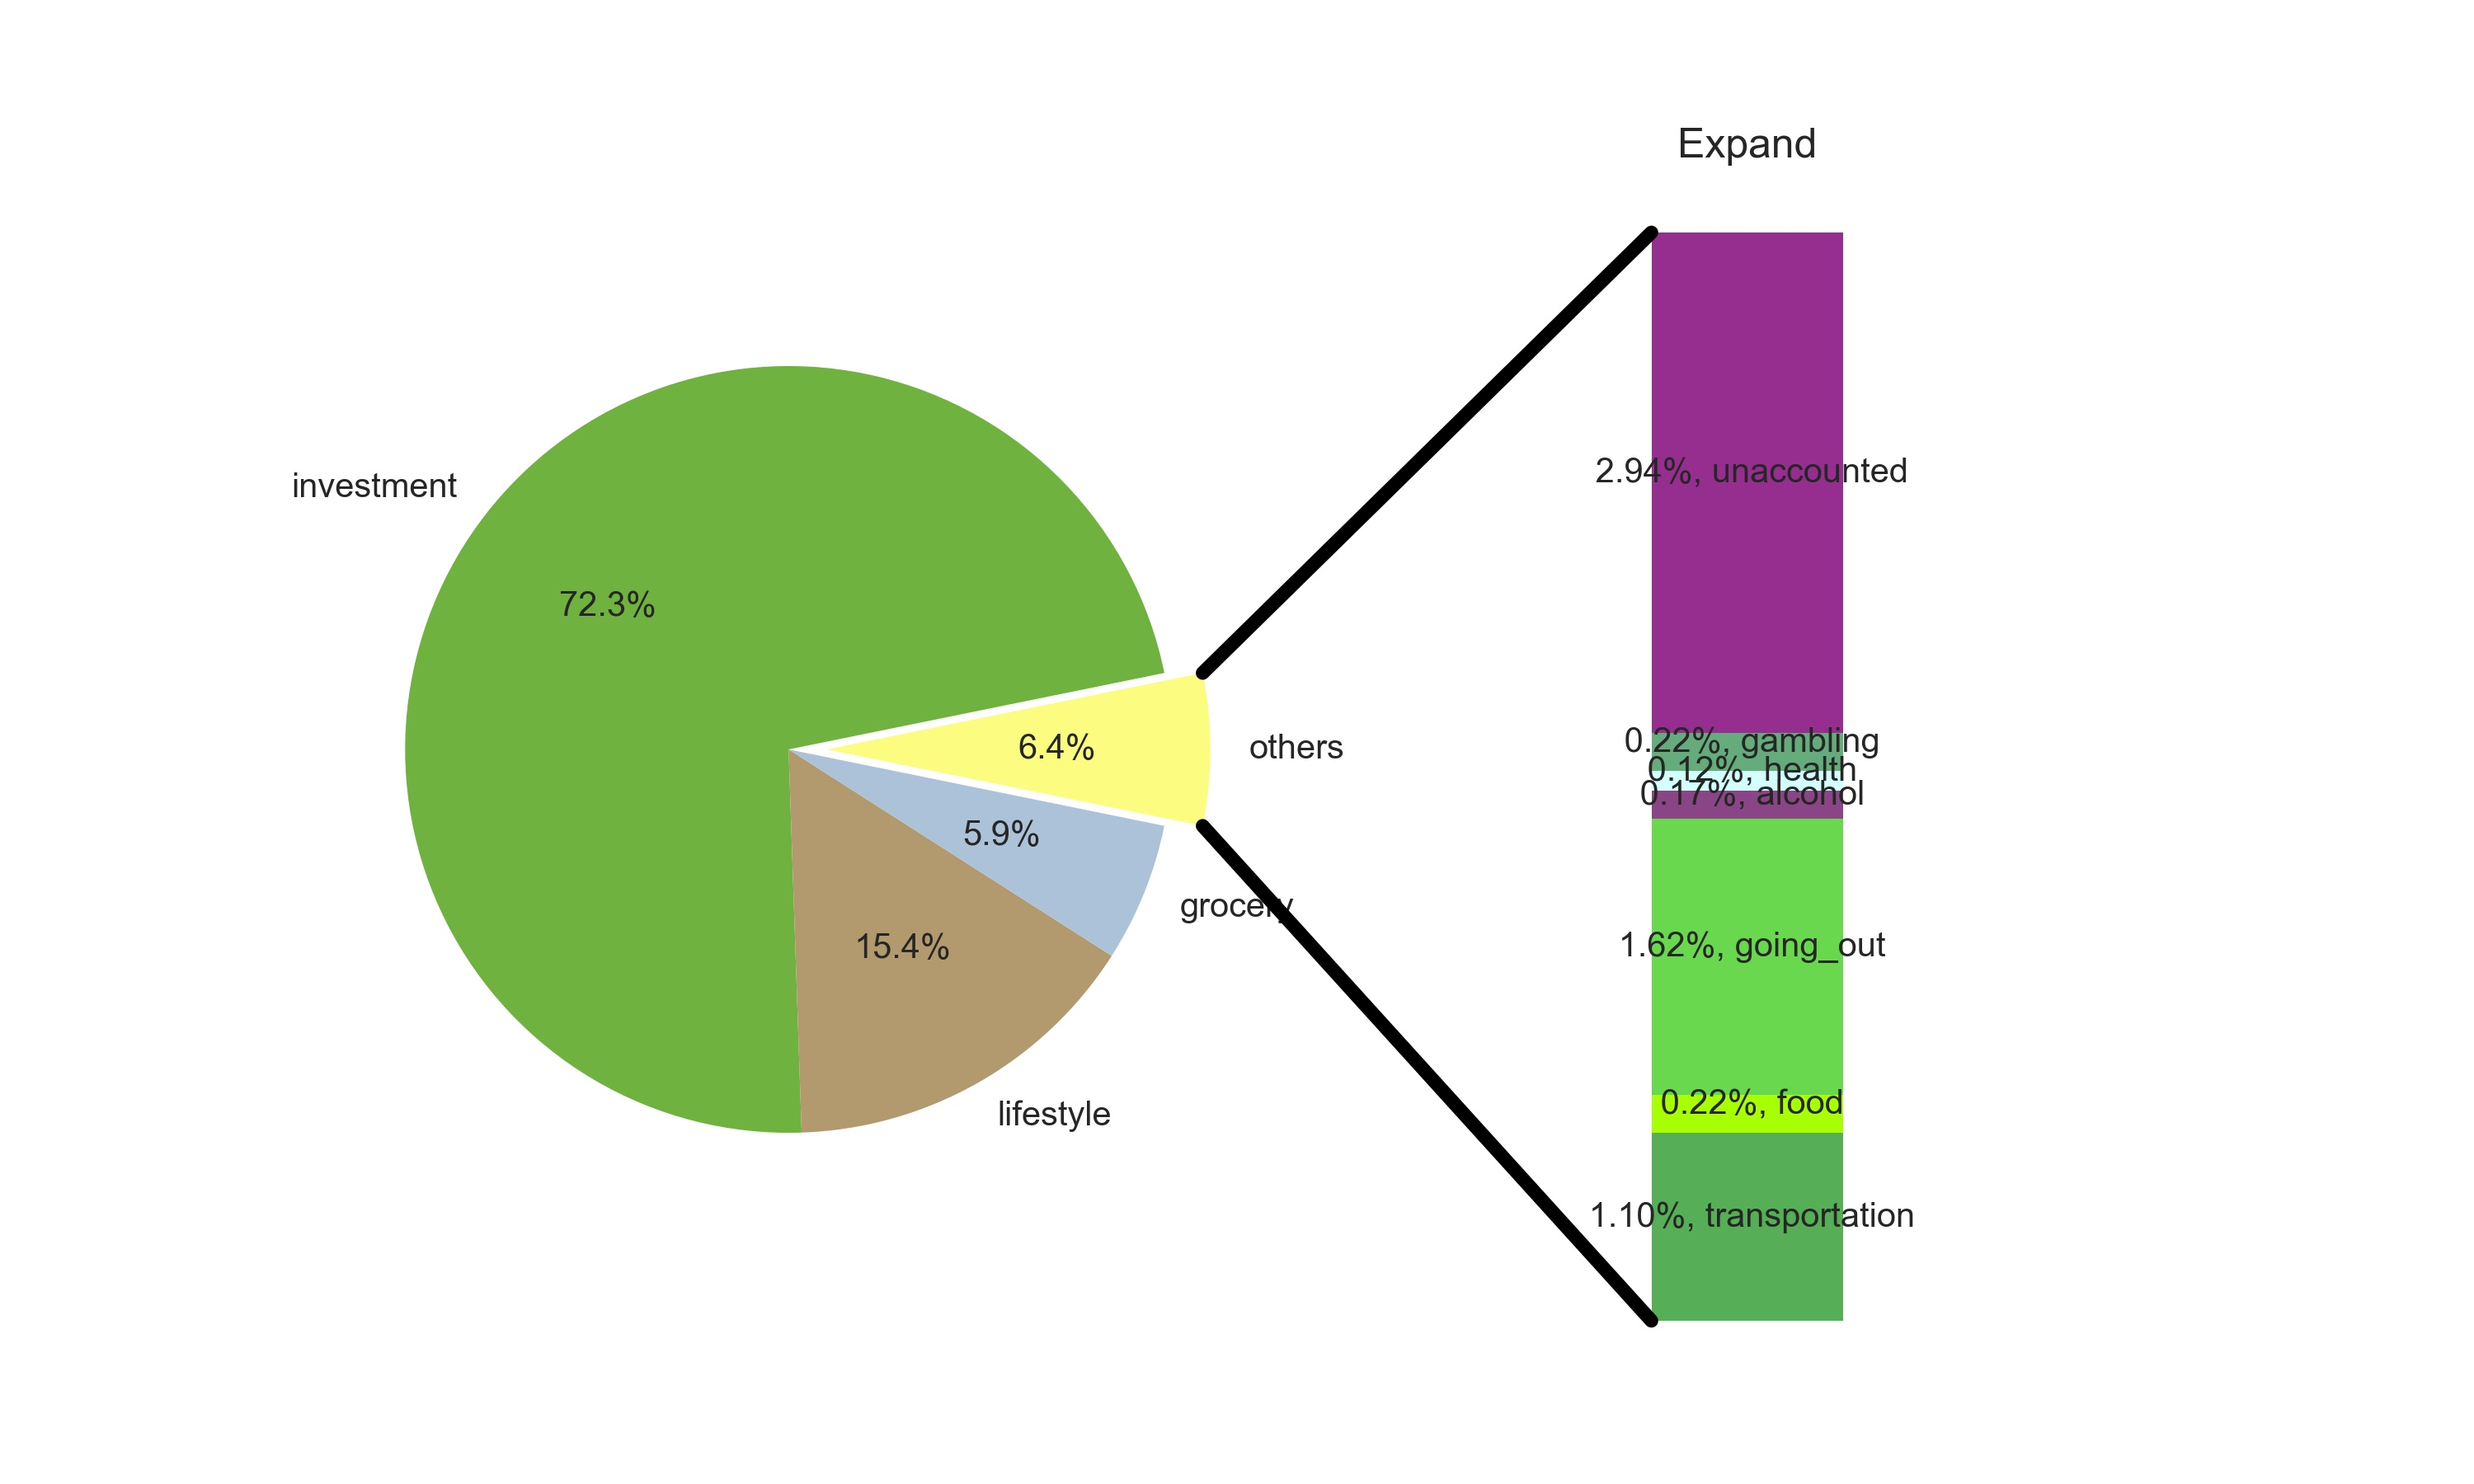
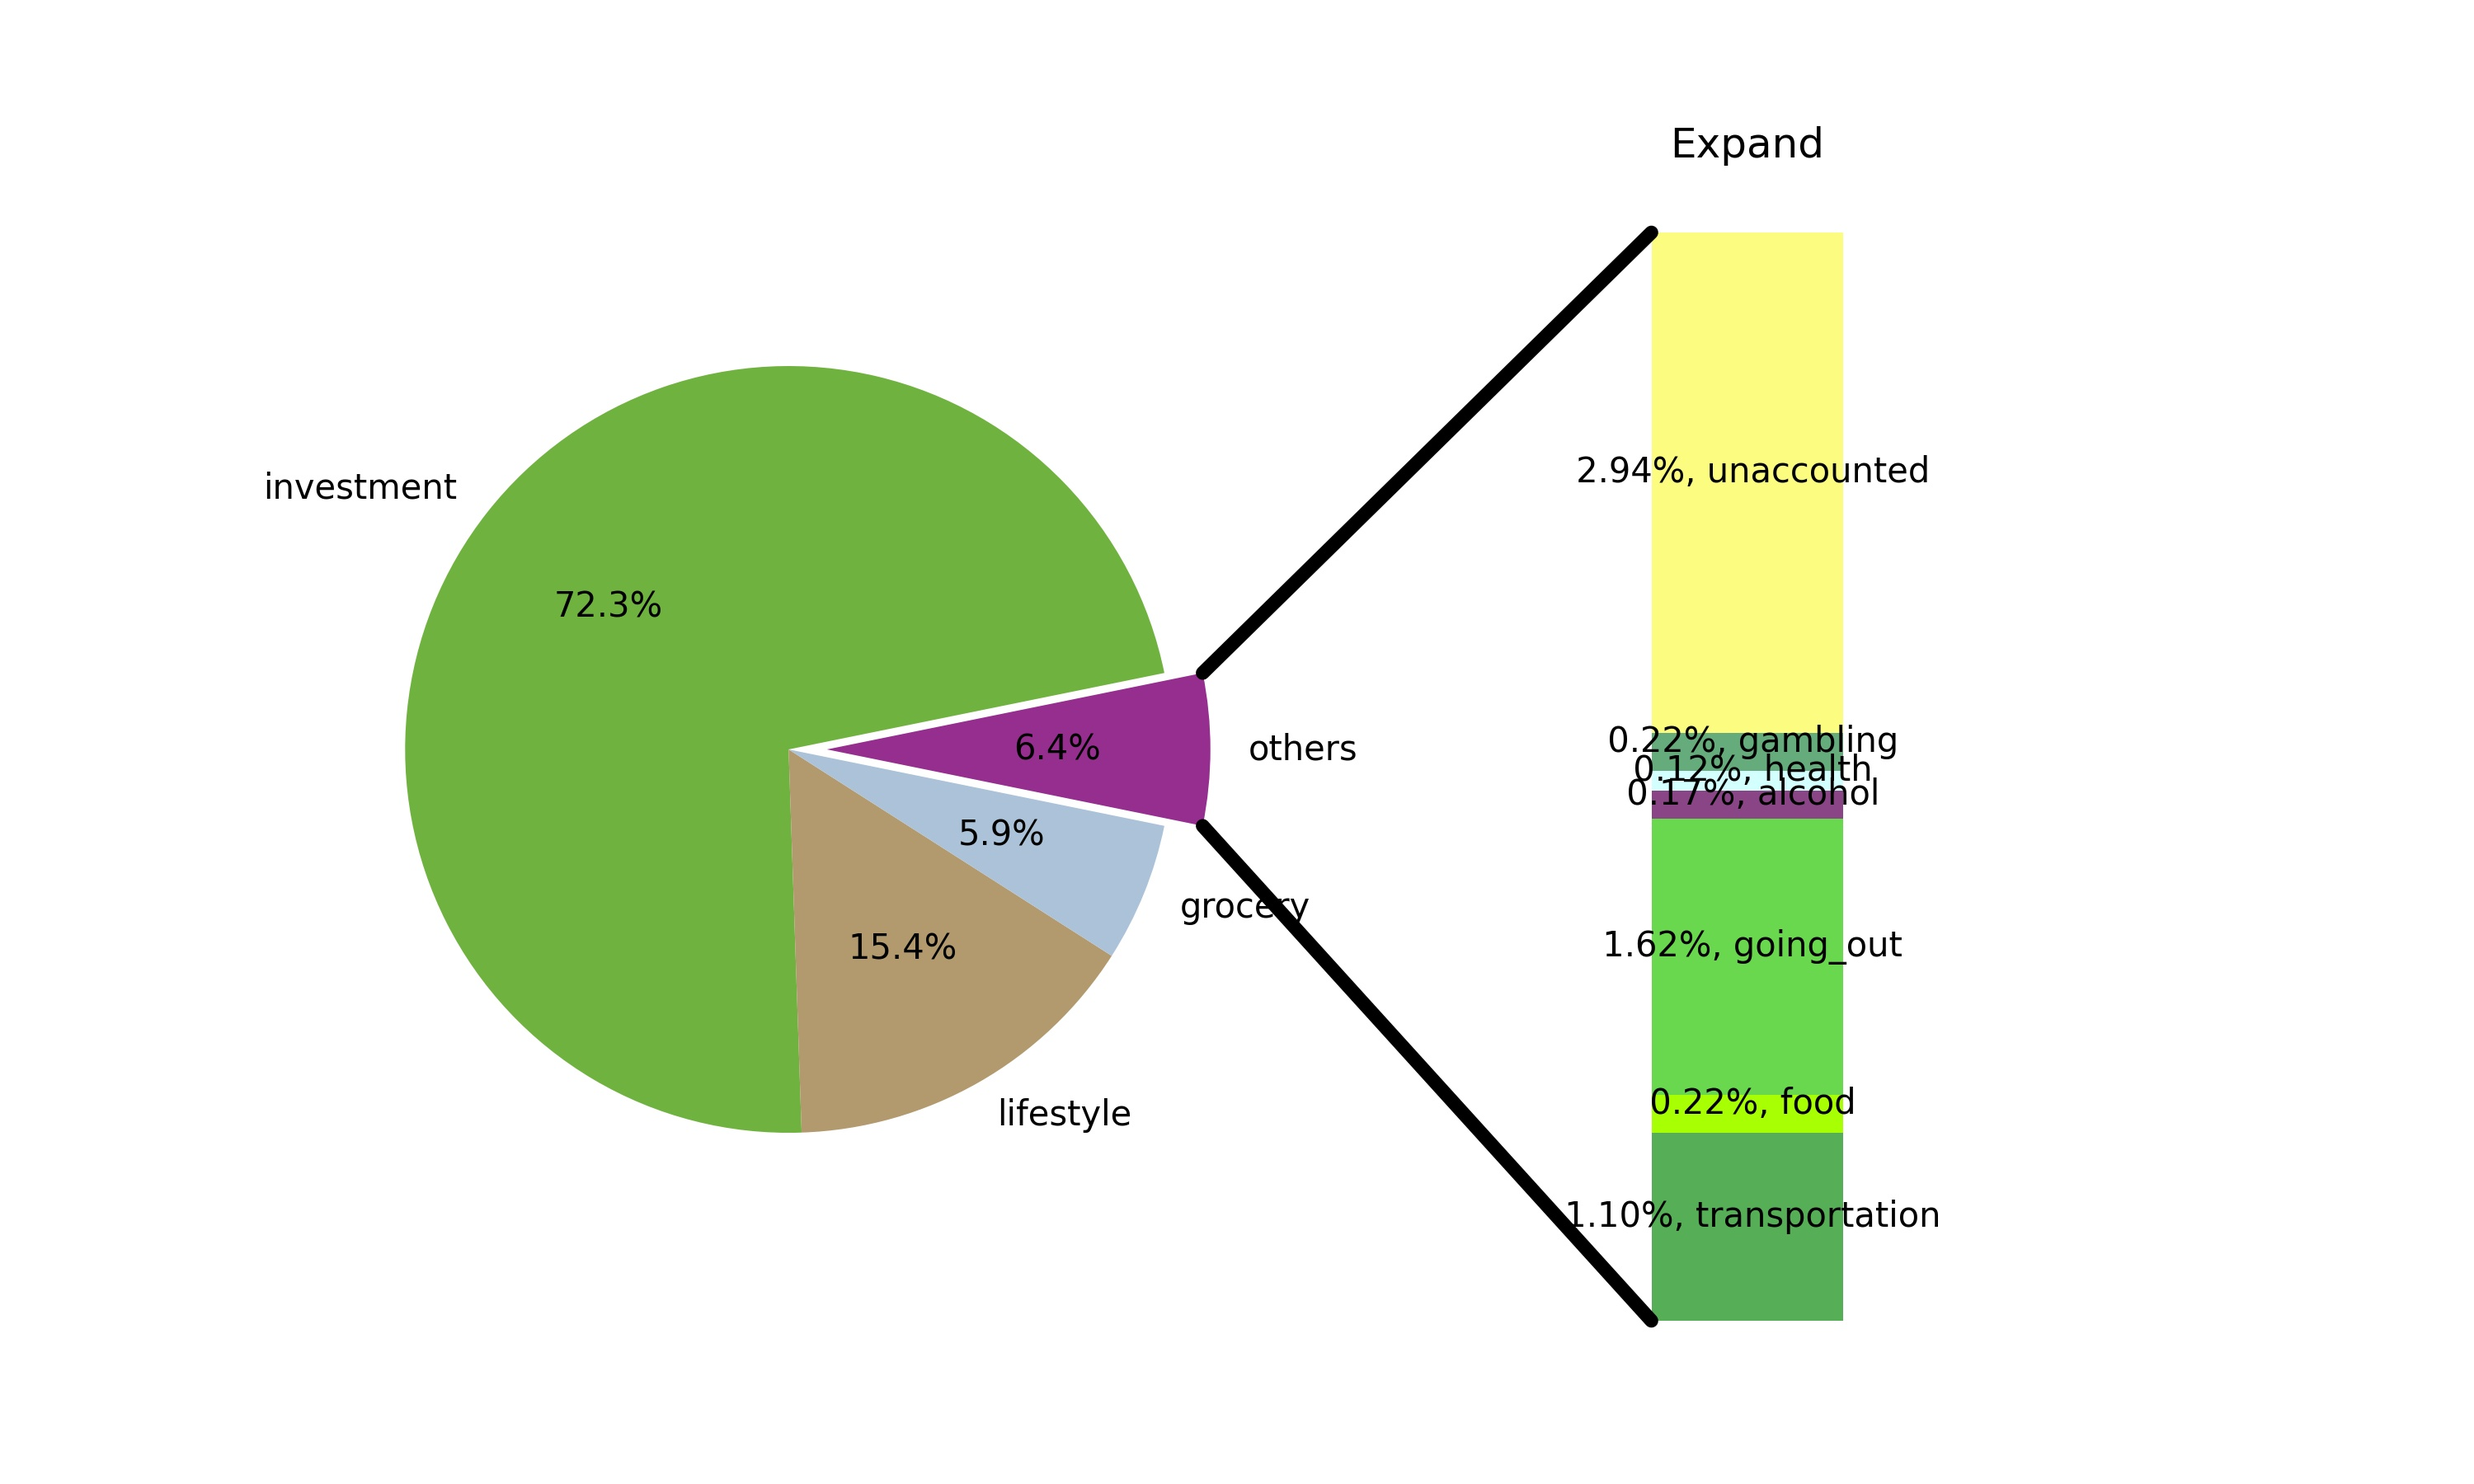
fixing run issue

diff --git a/main.py b/main.py
@@ -6,7 +6,7 @@ import matplotlib.pyplot as plt
 from pie_bar import pie_expand
 import json
 
-# %%
+
 def separate_data(data, classification):
     if len(data) == 0:
         return None
@@ -15,7 +15,7 @@ def separate_data(data, classification):
     data = data[data['classification'] != 'TRANSFER CREDIT']
 
     others = data.copy()
-
+    classified_data = {}
     for k,v in classification.items():
         classified_data[k] = others[others['name'].apply(lambda x: np.any([g.lower() in x.lower() for g in v]))]
         others = others[others['name'].apply(lambda x: np.all([g.lower() not in x.lower() for g in v]))]
@@ -122,17 +122,18 @@ if __name__ == '__main__':
         classified_data, others, transfer_credit = separate_data(ago, classification)
         classified_data['unaccounted'] = others
 
-        
-        # colors = [plt.cm.get_cmap('hsv', (len(classified_data)))(i) for i in range(len(classified_data))]
-        colors = list(mcd.XKCD_COLORS.values())[:len(colors)] #xkcd colors is acutally pretty nice
-
-        colors = dict(zip(classified_data.keys(), colors))
 
         classified_data_summary = {}
         for k,v in classified_data.items():
             if len(v) > 0:
                 classified_data_summary[k] = np.abs(v.amount.sum())
 
+        # get the colors for the plots so that the color can be nice and consistent
+        # colors = [plt.cm.get_cmap('hsv', (len(classified_data_summary)))(i) for i in range(len(classified_data_summary))]
+        colors = list(mcd.XKCD_COLORS.values())[:len(classification) + 2] #xkcd colors is acutally pretty nice
+
+        colors = dict(zip(list(classification.keys()) + ['others', 'unaccounted'], colors))
+        
         groupby_category_pie(classified_data_summary, colors, './figures/pie cat {}.jpg'.format(d.strftime('%b-%Y')))
         groupby_weekdays(ago, './figures/weekdays {}.jpg'.format(d.strftime('%b-%Y')))
 
